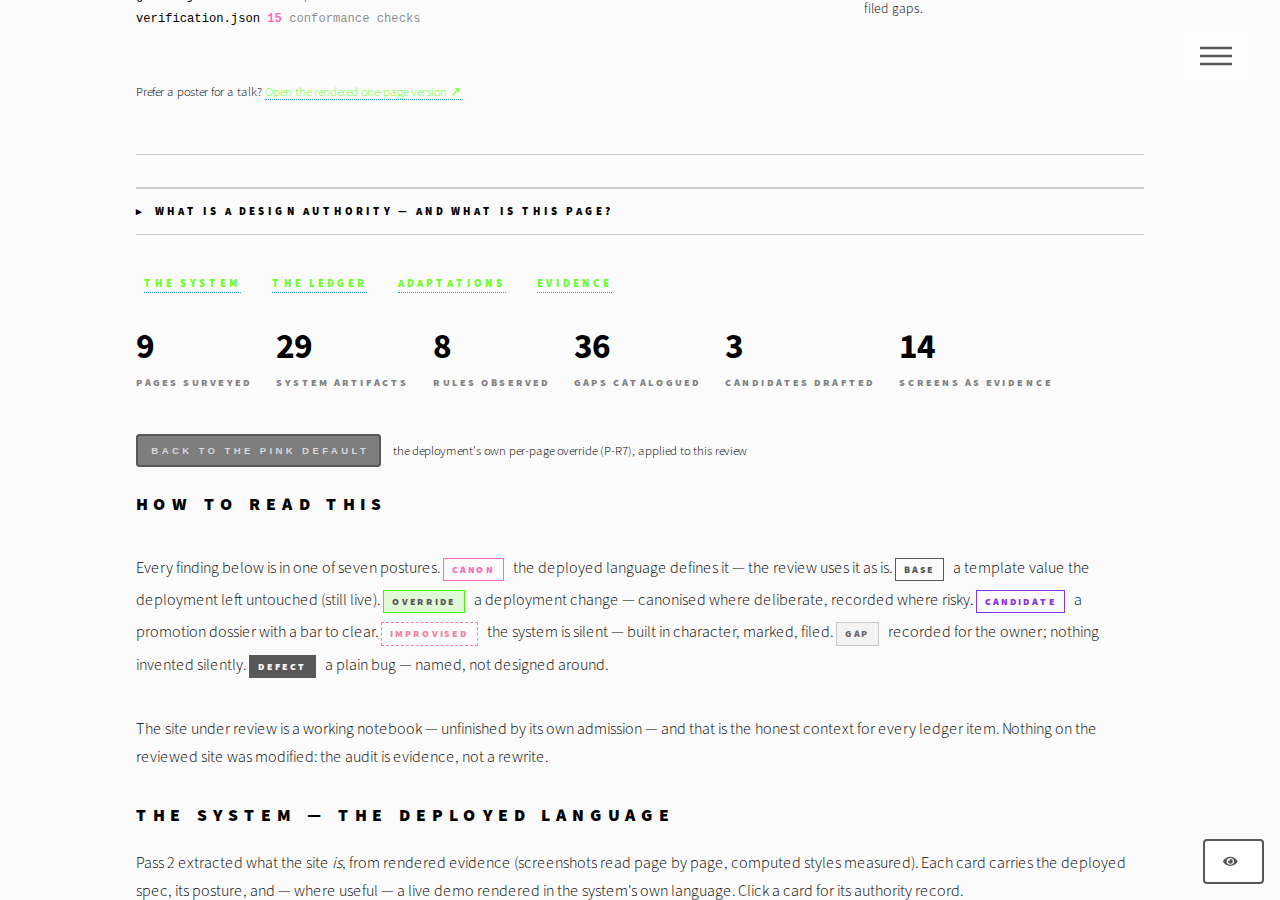
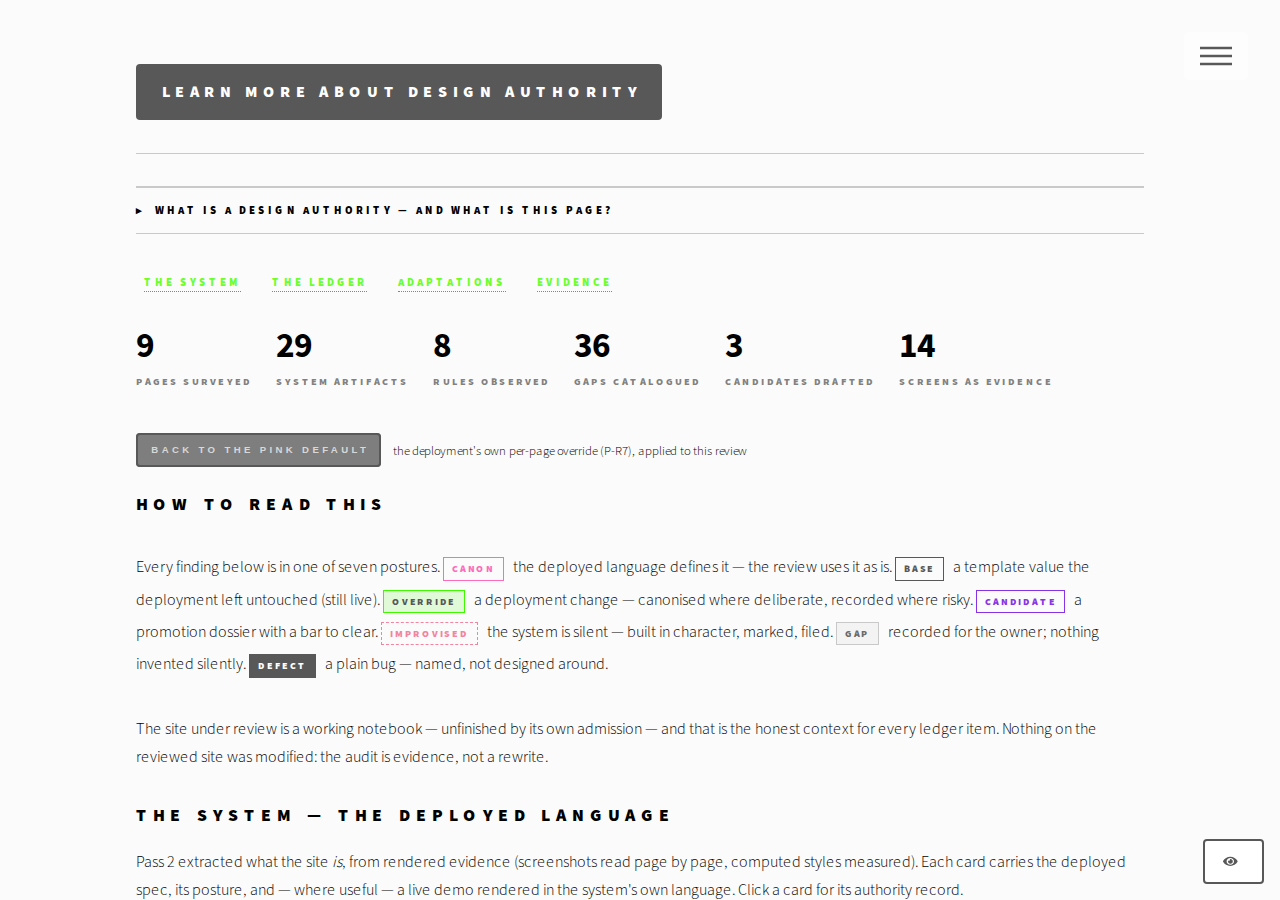
audit: 'Learn more about Design Authority' big button -> new live learn page (/designAuthority/jennu/learn, no JS); poster PNG stays as a download on it; link-trio check excludes buttons

diff --git a/examples/phantom-audit/learn.html b/examples/phantom-audit/learn.html
@@ -1,0 +1,153 @@
+<!DOCTYPE HTML>
+<!--
+  Learn more — Design Authority (the Jennu review, phantom-audit v2).
+  A standalone page: same deployed language as the review (assets/css/main.css),
+  explainer blocks styled by the console kit (assets/css/console.css). No JS required.
+-->
+<html lang="en">
+	<head>
+		<title>Design Authority — Jennu</title>
+		<meta charset="utf-8" />
+		<meta name="viewport" content="width=device-width, initial-scale=1, user-scalable=no" />
+		<meta name="robots" content="noindex, nofollow" />
+		<link rel="stylesheet" href="assets/css/fontawesome-all.min.css" />
+		<link rel="stylesheet" href="assets/css/main.css" />
+		<link rel="stylesheet" href="assets/css/console.css" />
+	</head>
+	<body>
+		<div id="wrapper">
+
+			<!-- Header -->
+				<header id="header">
+					<div class="inner">
+						<a href="index.html" class="logo" title="Back to the review">
+							<span class="symbol"><svg width="34" height="34" viewBox="0 0 34 34" aria-hidden="true"><circle cx="17" cy="17" r="13.5" fill="none" stroke="#585858" stroke-width="2.2"/><circle cx="17" cy="17" r="4.5" fill="#ff6bbc"/></svg></span><span class="title">Jennu</span>
+						</a>
+					</div>
+				</header>
+
+			<!-- Main -->
+				<div id="main">
+					<div class="inner">
+
+						<section>
+							<header>
+								<div class="ag-kicker">Learn more</div>
+								<h1>Design Authority</h1>
+								<p class="lede-ish">A <strong>design authority</strong> is a versioned, machine-readable description of an interface
+								system — its components, rules and fallbacks — written so that two independent readers can use the same contract:
+								a <strong>coding agent</strong> that builds with it, and a <strong>verifier</strong> that checks whether the build
+								actually conforms. It is a contract, not a style guide.</p>
+							</header>
+
+							<section class="aglance" data-improvised data-mk="explainer at a glance (console kit)" style="border-bottom: none;">
+								<div class="ag-cols">
+									<div class="ag-col">
+										<h3>01 · The contract</h3>
+										<p>A versioned, machine-readable description of an interface system — components, rules, fallbacks. Written for tools as much as for people.</p>
+										<div class="filelist">
+<code>packs/phantom/</code> <span class="c">— plain JSON, no database</span><br/>
+artifacts.json <span class="cnt">29</span> <span class="c">components · token-sets · layouts</span><br/>
+rules.json <span class="cnt">8</span> <span class="c">· prohibitions <span class="cnt">2</span> · fallbacks <span class="cnt">4</span></span><br/>
+precedents.json <span class="cnt">1</span> <span class="c">· candidates.json <span class="cnt">3</span></span><br/>
+golden.json <span class="cnt">21</span> <span class="c">ask → expected outcome</span><br/>
+verification.json <span class="cnt">15</span> <span class="c">conformance checks</span>
+										</div>
+									</div>
+									<div class="ag-col">
+										<h3>02 · Two consumers</h3>
+										<div class="fstep"><span class="arr">▸</span><div class="fbox"><b>Authority</b>the pack — one contract</div></div>
+										<div class="fstep"><span class="arr">▸</span><div class="fbox l"><b>Agent</b>resolves every ask; builds</div></div>
+										<div class="fstep"><span class="arr">▸</span><div class="fbox"><b>Artifact</b>the built interface — silences become marked improvisations + filed gaps</div></div>
+										<div class="fstep"><span class="arr">▸</span><div class="fbox r"><b>Verifier</b>inspects the artifact — never the agent's claims</div></div>
+										<div class="fstep"><span class="arr">▸</span><div class="fbox report"><b>Report</b>15/15 checks · published with hash‑covers</div></div>
+									</div>
+									<div class="ag-col">
+										<h3>03 · How it evolves</h3>
+										<ul class="evol">
+											<li><span class="chip chip--base">v0.1.0</span><span class="chip chip--fix">rejected</span><span class="chip chip--canon">v0.2.0</span> frozen and verified, but extracted from the wrong layer — rendered evidence overruled it; the reversal is recorded as a precedent, not hidden.</li>
+											<li><span class="chip">rule</span> editorial edit → patch bump; semantic change → minor bump + fresh freeze (all files re-hashed).</li>
+											<li><span class="chip">rule</span> precedents persist — settled decisions are never relitigated.</li>
+											<li><span class="chip">rule</span> ambitions become candidates with an explicit promote-when bar; friction becomes filed gaps.</li>
+										</ul>
+									</div>
+								</div>
+							</section>
+
+							<h2>What it is</h2>
+							<p>A design authority collects an interface system's decisions as records: what a button is
+							(its states, its measurements, where the value came from), what the rules are (ink, radius,
+							tracking, link behaviour), what is forbidden or unknown, and what happens when something has
+							no answer yet (fallbacks). Every record cites its evidence — a stylesheet line, a measured
+							value, a screenshot — so claims can be checked rather than trusted.</p>
+
+							<h2>Why it exists</h2>
+							<p>Interfaces drift. Every page, edit and feature makes slightly different choices, until
+							“follow the design” stops meaning anything. An authority makes those choices explicit and
+							testable: a build can be checked against it, gaps become visible instead of silent, and
+							decisions survive across sessions — a coding agent picks up the contract and works the same
+							way an engineer does with an API, not a mood board.</p>
+
+							<h2>How this review fits in</h2>
+							<p><strong>1 — Extraction.</strong> The deployed language of
+							<a href="https://zhenyoyo.github.io/" target="_blank" rel="noopener">zhenyoyo.github.io</a>
+							was measured from the rendered site (64 screenshots, computed styles) into
+							<code>packs/phantom</code> 0.2.0 — named <strong>Jennu</strong>. Every value is tagged
+							<em>base</em> (from the HTML5 UP template) or <em>override</em> (the site's own change).</p>
+							<p><strong>2 — Consumption.</strong> The <a href="index.html">review</a> is built from that
+							authority: covered elements are used as defined; where the authority is silent, the result
+							is improvised in character, marked (◌, bottom-right of the review) and filed as a gap record.</p>
+							<p><strong>3 — Verification.</strong> A separate verifier (<em>da_verify</em>, 15 checks)
+							inspects the rendered review — never its own claims — and the results are linked from the
+							review's footer with hash-covers over the build.</p>
+
+							<h2>The worked example — one revision, live</h2>
+							<ul class="expl-timeline">
+								<li><span class="ver">v0.1.0</span> <span class="muted">initial freeze — hashed, git-tagged</span><p>Extracted from the template's stylesheet: grey ink canon, the site's pink type misfiled as "deviations". Verified mechanically (its contract re-run clean: 17/17) — but extracted from the wrong layer.</p></li>
+								<li class="bad"><span class="ver">rejected</span> <span class="muted">owner review of the rendered result</span><p>"The site that exists runs pink type — extract what IS." A version can be internally consistent and still describe the wrong thing; only rendered evidence settles it.</p></li>
+								<li class="v2"><span class="ver">v0.2.0</span> <span class="muted">fresh freeze — all pack files re-hashed</span><p>Re-extracted screenshot-first (4 domain teams, 64 captures): canon = the deployed language. The reversal became <code>precedent/pink-ink-canonised</code> — superseded, not deleted. Goldens re-run 21/21; the verification contract rewritten (15 checks), re-run 15/15.</p></li>
+							</ul>
+
+							<h2>The standing rules</h2>
+							<div class="expl-rules">
+								<div class="r"><b>Editorial edit → patch bump</b><span>Wording, typos, clarifications. No re-freeze needed.</span></div>
+								<div class="r"><b>Semantic change → minor bump + fresh freeze</b><span>New or changed records, pipeline order, thresholds, tool contracts, taxonomies.</span></div>
+								<div class="r grey"><b>Adjudications become precedents</b><span>Accepted / declined decisions persist so agents never relitigate them.</span></div>
+								<div class="r purple"><b>Ambitions become candidates</b><span>Every candidate carries an explicit promote-when bar — no silent canonisation.</span></div>
+								<div class="r blue"><b>Friction is recorded, not smoothed</b><span>Consumer gaps are filed per workspace; resolutions and proposals are first-class records.</span></div>
+								<div class="r"><b>The contract co-versions</b><span>Goldens guard resolution; the verification contract travels with the pack and re-runs against every build.</span></div>
+							</div>
+							<p>The evolution loop: <strong>extract</strong> (rendered evidence) → <strong>freeze</strong> (hashes) →
+							<strong>consume</strong> (agents resolve &amp; build) → <strong>verify</strong> (independent checks) →
+							<strong>adjudicate</strong> (precedent · gap · candidate) → next version. Nothing moves the pack except
+							an adjudicated decision.</p>
+
+							<h2>See it working</h2>
+							<ul class="actions">
+								<li><a href="index.html" class="button large primary">Open the review</a></li>
+								<li><a href="assets/explainer/design-authority.png" target="_blank" rel="noopener" class="button large">Poster (PNG) for printing</a></li>
+							</ul>
+						</section>
+
+					</div>
+				</div>
+
+			<!-- Footer -->
+				<footer id="footer">
+					<div class="inner">
+						<section>
+							<h2>About</h2>
+							<p><strong>Jennu</strong> — the design authority of zhenyoyo.github.io (HTML5 UP Phantom
+							deployment), extracted from the deployed site. Template “Phantom” by HTML5 UP (CCA 3.0);
+							the review app is built on <code>packs/phantom</code> 0.2.0. Not affiliated with the
+							reviewed site.</p>
+						</section>
+						<ul class="copyright">
+							<li>Jennu — learn more · console-kit styling, marked in source</li>
+						</ul>
+					</div>
+				</footer>
+
+		</div>
+	</body>
+</html>

diff --git a/examples/phantom-audit/index.html b/examples/phantom-audit/index.html
@@ -98,7 +98,7 @@ verification.json <span class="cnt">15</span> <span class="c">conformance checks
 										</ul>
 									</div>
 								</div>
-								<p class="ag-link muted">Prefer a poster for a talk? <a href="assets/explainer/design-authority.png" target="_blank" rel="noopener">Open the rendered one-page version ↗</a></p>
+								<p class="ag-cta"><a href="learn" class="button large primary">Learn more about Design Authority</a></p>
 							</section>
 							<details class="explainer" data-improvised data-mk="explainer (console kit)">
 								<summary>What is a Design Authority — and what is this page?</summary>
@@ -129,7 +129,7 @@ verification.json <span class="cnt">15</span> <span class="c">conformance checks
 										<div class="r"><b>The contract co-versions</b><span>Goldens guard resolution; the verification contract travels with the pack and re-runs against every build.</span></div>
 									</div>
 									<p>The evolution loop: <strong>extract</strong> (rendered evidence) → <strong>freeze</strong> (hashes) → <strong>consume</strong> (agents resolve &amp; build) → <strong>verify</strong> (independent checks) → <strong>adjudicate</strong> (precedent · gap · candidate) → next version. Nothing moves the pack except an adjudicated decision.</p>
-									<p class="ag-link muted"><a href="assets/explainer/design-authority.png" target="_blank" rel="noopener">Rendered poster (PNG) for talks / printing ↗</a></p>
+									<p class="ag-link muted"><a href="learn">Learn more about Design Authority ↗</a> · <a href="assets/explainer/design-authority.png" target="_blank" rel="noopener">poster (PNG)</a></p>
 								</div>
 							</details>
 							<ul class="snav" data-improvised data-mk="section nav (console kit)">

diff --git a/examples/phantom-audit/assets/css/console.css b/examples/phantom-audit/assets/css/console.css
@@ -189,3 +189,6 @@ ul.expl-timeline p { font-size: 0.85em; margin: 0.3em 0 0 0; }
 .expl-rules .r b { display: block; font-size: 0.82em; letter-spacing: 0.04em; }
 .expl-rules .r span { font-size: 0.82em; line-height: 1.5; }
 @media screen and (max-width: 736px) { .expl-rules { grid-template-columns: 1fr; } }
+
+.ag-cta { margin: 1.4em 0 0 0; }
+.lede-ish { font-size: 1.05em; }

diff --git a/docs/synthesis/phantom/tools/app_test.py b/docs/synthesis/phantom/tools/app_test.py
@@ -41,6 +41,7 @@ with sync_playwright() as p:
 
     # explainer accordion
     check("at-a-glance block is live elements", pg.evaluate("document.querySelectorAll('.aglance .fstep').length") == 5 and pg.evaluate("document.querySelectorAll('.aglance .filelist .cnt').length") >= 4)
+    check("learn-more button present + wired", pg.evaluate("(() => { const b = document.querySelector('.ag-cta .button'); return !!b && b.textContent.indexOf('Learn more about Design Authority') > -1 && b.getAttribute('href') === 'learn'; })()"))
     check("explainer starts collapsed", pg.evaluate("!document.querySelector('details.explainer').open"))
     pg.click("details.explainer > summary")
     pg.wait_for_timeout(150)
@@ -131,6 +132,16 @@ with sync_playwright() as p:
     pg.click("#demoReplay")
     pg.wait_for_timeout(300)
     check("no errors after replay", not errs)
+
+    # learn page (pretty /learn in production; /learn.html in this harness)
+    pg.goto(f"http://127.0.0.1:{port}/learn.html", wait_until="load")
+    pg.wait_for_timeout(500)
+    check("learn page: h1 + worked example present",
+          pg.evaluate("(document.querySelector('h1') || {}).textContent") == "Design Authority"
+          and pg.evaluate("document.querySelectorAll('.expl-timeline li').length") == 3
+          and pg.evaluate("!!document.querySelector('.expl-rules .r')"))
+    pg.goto(f"http://127.0.0.1:{port}/index.html", wait_until="load")
+    pg.wait_for_timeout(700)
 
     # screenshots
     pg.evaluate("window.scrollTo(0,0)")

diff --git a/docs/synthesis/review-app/app.py b/docs/synthesis/review-app/app.py
@@ -852,6 +852,17 @@ def jennu_file(fn):
     return send_from_directory(os.path.join(_REPO, "examples", "phantom-audit"), fn)
 
 
+@app.route("/designAuthority/jennu/learn")
+def jennu_learn():
+    return send_from_directory(os.path.join(_REPO, "examples", "phantom-audit"), "learn.html")
+
+
+@app.route("/designAuthority/jennu/learn/")
+def jennu_learn_slash():
+    # the page has no trailing-slash home; keep relative assets anchored to /jennu/
+    return redirect("/designAuthority/jennu/learn", code=308)
+
+
 # legacy spelling (jenmu) — keep old links working
 @app.route("/designAuthority/jenmu/")
 @app.route("/designAuthority/jenmu")

diff --git a/examples/phantom-audit/NOTES.md b/examples/phantom-audit/NOTES.md
@@ -73,6 +73,7 @@ redistributed beyond the captured evidence shots.
 
 **Serve.** `/designAuthority/jennu/` on the synthesis review app (tailnet:
 https://gpu-vm1.bigscale-snapper.ts.net:8420/designAuthority/jennu/; public:
-https://audit.seanyong.xyz/designAuthority/jennu/ — old jenmu links 308-redirect). The host serves
+https://audit.seanyong.xyz/designAuthority/jennu/ — learn-more page at /designAuthority/jennu/learn;
+old jenmu links 308-redirect). The host serves
 `X-Robots-Tag: noindex` on everything and a disallow-all robots.txt. Named **Jennu**
 2026-10-08.
